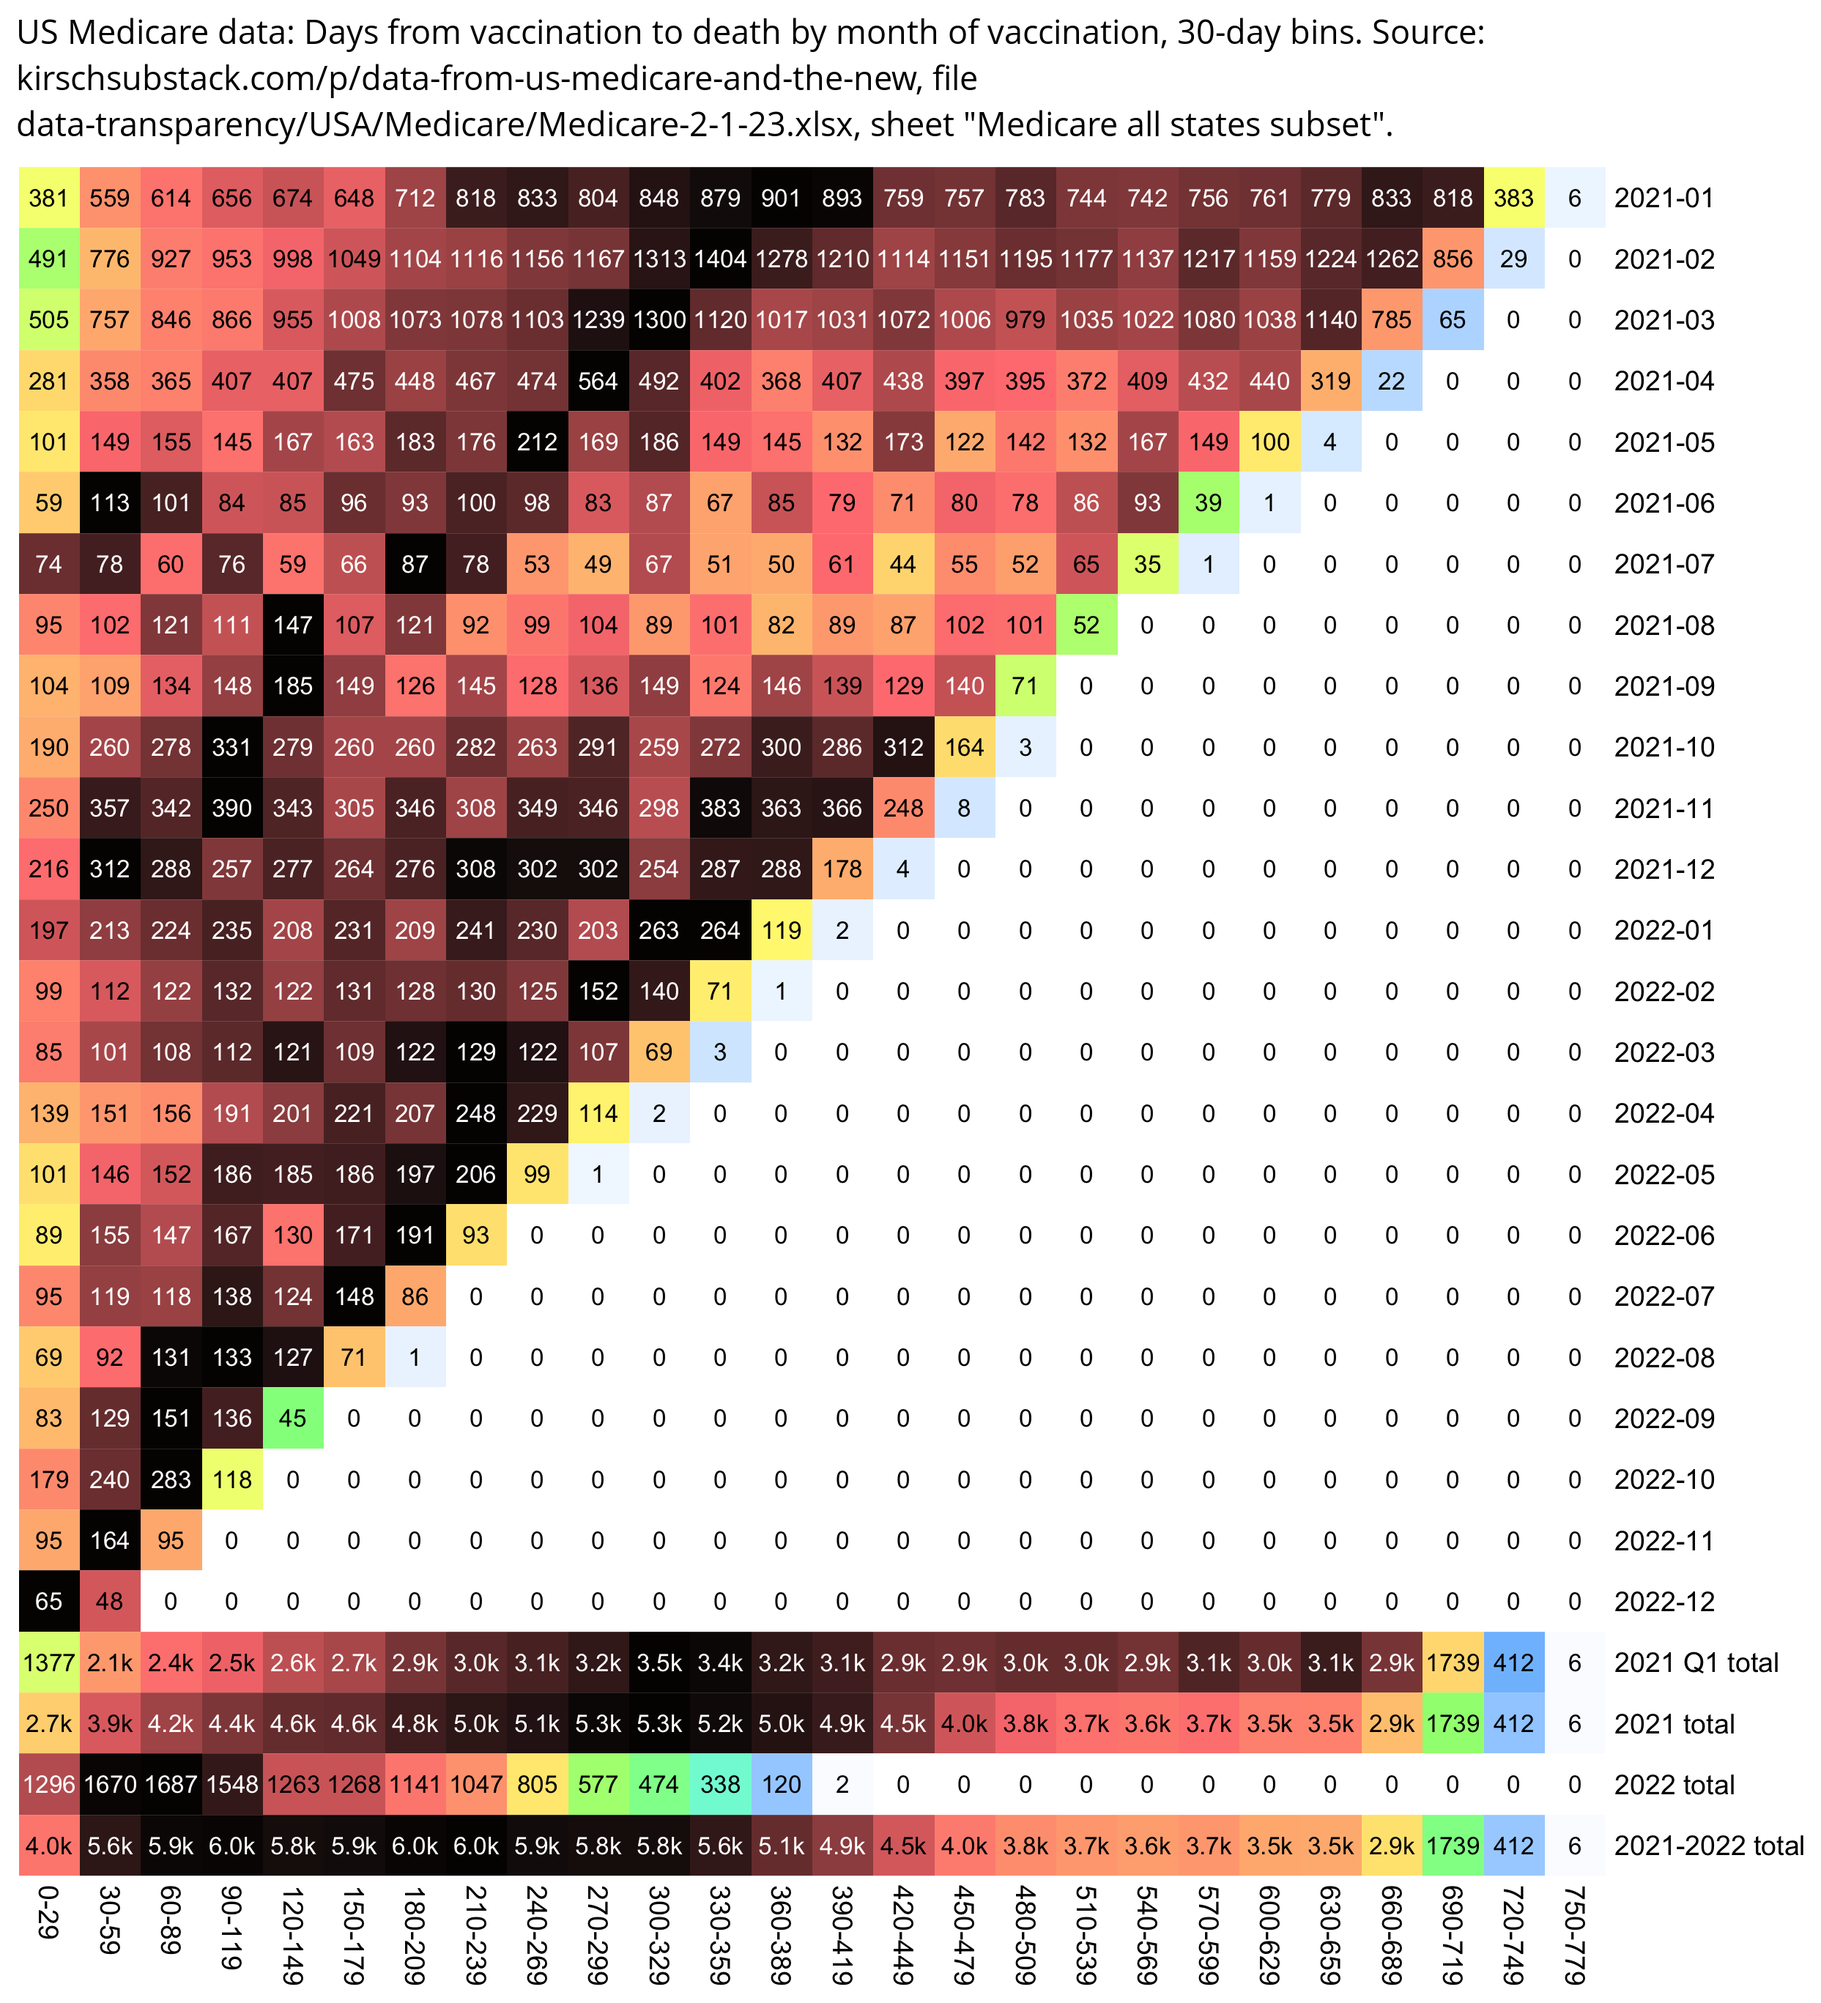
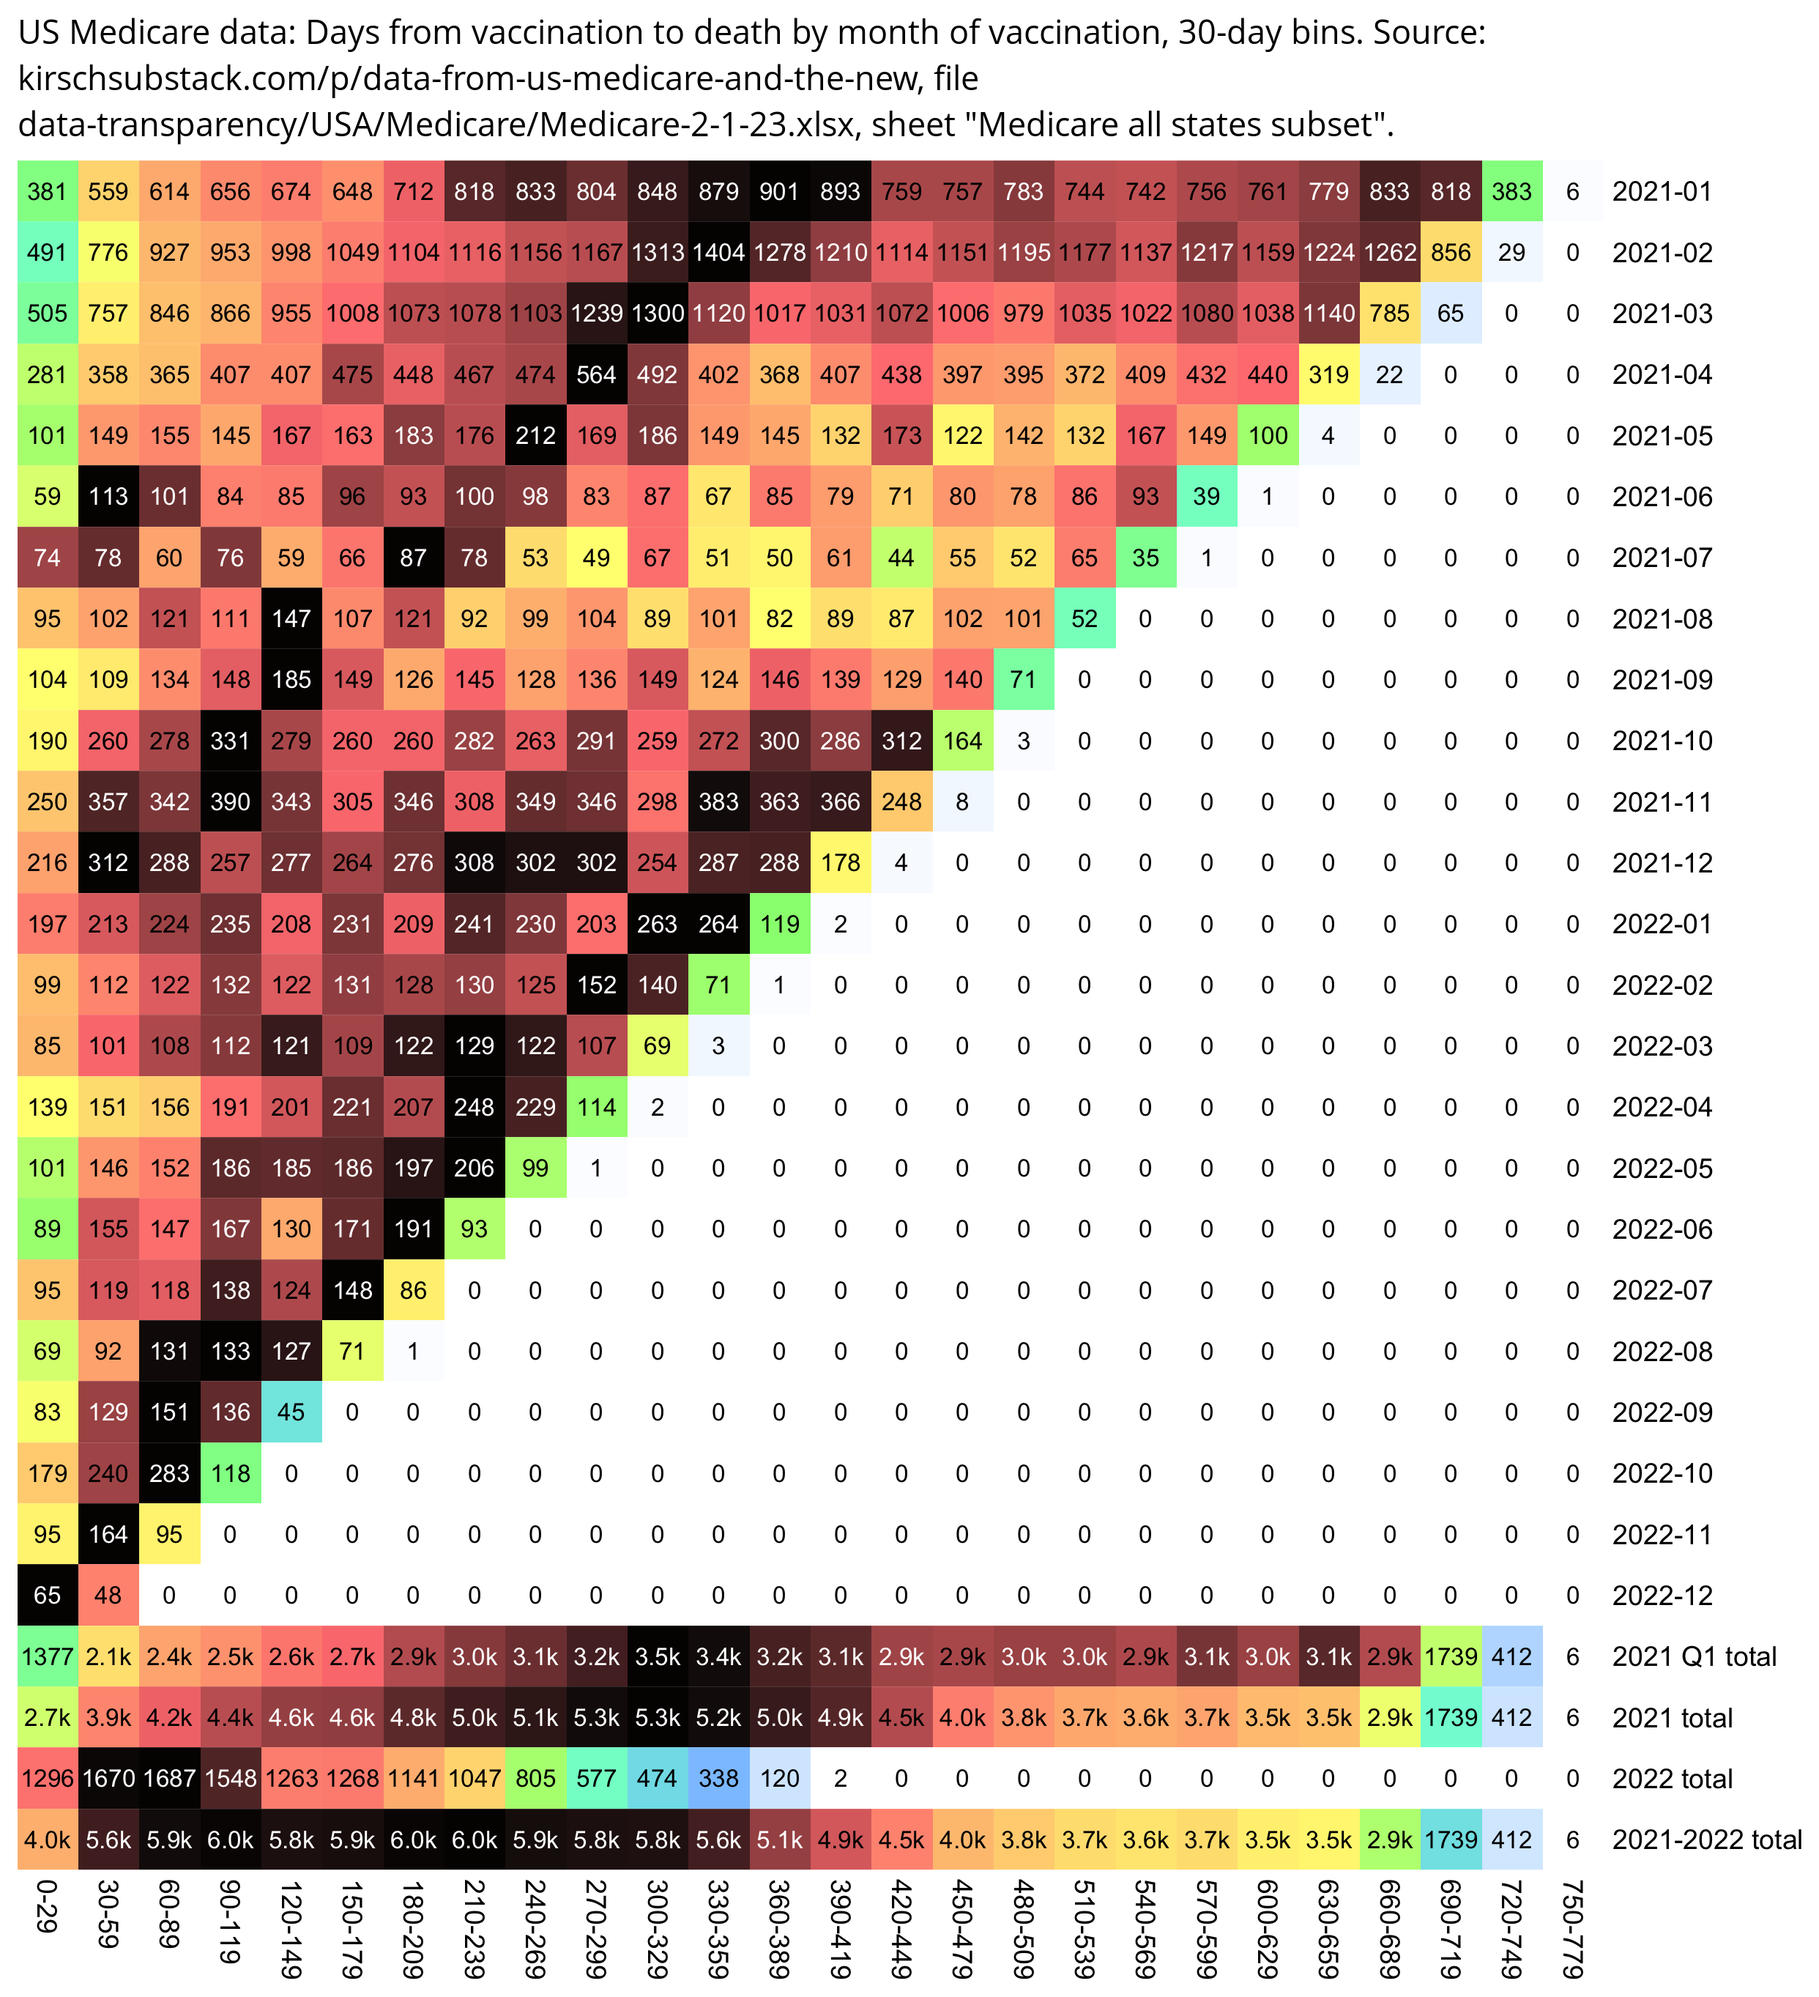
a

diff --git a/moar.html b/moar.html
@@ -80,7 +80,7 @@ th{background:#eee;text-align:left;font-weight:bold}
 </ul></li>
 <li><a href=#Other_datasets_published_by_Kirsch>Other datasets published by Kirsch</a>
 <ul>
-<li><a href=#Increase_in_deaths_by_days_after_vaccination_in_US_Medicare_data>Increase in deaths by days after vaccination in US Medicare data</a></li>
+<li><a href=#Increasing_trend_in_deaths_by_days_after_vaccination_in_US_Medicare_data>Increasing trend in deaths by days after vaccination in US Medicare data</a></li>
 </ul></li>
 <li><a href=#Miscellaneous>Miscellaneous</a>
 <ul>
@@ -1482,21 +1482,23 @@ ggsave(&quot;1.png&quot;,width=5.8,height=4.5)</pre>
 <p>The point of this analysis is to show that the deaths after dose 3 peak around 6 months from the shot, regardless of which month the dose 3 shots were given in. This is a HUGE problem to explain. There is no explanation other than the vaccines are causing the death peaks.</p>
 <p>Here is the histogram for Dose 3 delivery in New Zealand; this was of only the people who were vaxxed and died, but is a good proxy for the overall delivery:</p>
 <p><img src=i/moar-sensitivity-1.png class=width5></p>
-<p>So I then plotted the deaths since Dose 3 for Doses delivered in Nov 2021, Dec 2021, … , March 2022.</p>
+<p>So I then plotted the deaths since Dose 3 for Doses delivered in Nov 2021, Dec 2021, ... , March 2022.</p>
 <p>As you can see the patterns do NOT shift. The peak is always around day 170.</p>
-<p>This means there wasn’t a background event causing the peak.</p>
+<p>This means there wasn't a background event causing the peak.</p>
 <p>It means the peaks were due to the vaccine itself.</p>
 <p>[...]</p>
 <p>There is a steady increase in deaths per month which levels off at month 6 (day 170) no matter when you are vaccinated. The only way this can happen is if it is the vaccines causing this.</p>
-<p>We'll go backward from vaxxed in March 2022. Y-axis is # people who died within the 28 day bucket</p>
+<p>We'll go backward from vaxxed in March 2022. Y-axis is # people who died within the 28 day bucket:</p>
 <div class="width0">
 <img src=i/moar-sensitivity-2.png class=width5><img src=i/moar-sensitivity-3.png class=width5><img src=i/moar-sensitivity-4.png class=width5><img src=i/moar-sensitivity-5.png class=width5><img src=i/moar-sensitivity-6.png class=width5>
 </div>
 </blockquote>
-<p>Kirsch worte that the peak in deaths was always around day 170 regardless of which month the vaccine doses were given. However the plots above actually show that the deaths peaked on days 171-198 in November 2021 but on days 115-142 in March 2022, so the time until the peak seems to have been getting shorter over time. When I also included further months past March 2022 and I used 30-day bins instead of 28-day bins, I got a linear trend where the deaths peaked on days 180-209 for doses given in January 2022, on days 150-179 for doses given in February, on days 120-149 for doses given in March, and on days 90-119 for doses given in April (or actually for doses given in January there was a second peak over 500 days later which was even higher):</p>
-<div class="width6">
+<p>Kirsch wrote that the peak in deaths was always around day 170 regardless of which month the vaccine doses were given. However the plots above actually show that the deaths peaked on days 171-198 in November 2021 but on days 115-142 in March 2022, so the time until the peak seems to have been getting shorter over time. When I also included further months past March 2022 and I used 30-day bins instead of 28-day bins, I got a linear trend where the deaths peaked on days 180-209 for doses given in January 2022, on days 150-179 for doses given in February, on days 120-149 for doses given in March, and on days 90-119 for doses given in April (or actually for doses given in January there was a second even higher peak around days 510-599):</p>
+<div class="width7">
 <img src="i/moar-sensitivity-7.png">
 </div>
+<p>If you look at first doses instead of third doses, there is also a similar linear pattern where the number of deaths peaks on days 420-449 for vaccines given in May 2021, and over the next months the peak shifts by about 30 days each month:</p>
+<p><img src=i/moar-sensitivity-8.png style=max-width:850px></p>
 <pre>t=as.data.frame(data.table::fread(&quot;nz-record-level-data-4M-records.csv&quot;))
 for(i in grep(&quot;date&quot;,colnames(t)))t[,i]=as.Date(t[,i],&quot;%m-%d-%Y&quot;)
 
@@ -1508,7 +1510,6 @@ colnames(m)=paste0(colnames(m),&quot;-&quot;,as.numeric(colnames(m))+29)
 
 disp=ifelse(m&gt;=2e3,paste0(sprintf(&quot;%.1f&quot;,m/1e3),&quot;k&quot;),m)
 m=m/apply(m,1,max)
-m=m^.7
 
 pheatmap::pheatmap(
   m,
@@ -1533,7 +1534,7 @@ system(&quot;convert -trim 0.png -bordercolor white -gravity northwest -splice x
 <a href=#Other_datasets_published_by_Kirsch id=Other_datasets_published_by_Kirsch>Other datasets published by Kirsch</a>
 </h2>
 <h3>
-<a href=#Increase_in_deaths_by_days_after_vaccination_in_US_Medicare_data id=Increase_in_deaths_by_days_after_vaccination_in_US_Medicare_data>Increase in deaths by days after vaccination in US Medicare data</a>
+<a href=#Increasing_trend_in_deaths_by_days_after_vaccination_in_US_Medicare_data id=Increasing_trend_in_deaths_by_days_after_vaccination_in_US_Medicare_data>Increasing trend in deaths by days after vaccination in US Medicare data</a>
 </h3>
 <p>Kirsch wrote: [<a href="https://kirschsubstack.com/p/medicare-death-data-proves-the-covid">https://kirschsubstack.com/p/medicare-death-data-proves-the-covid</a>]</p>
 <blockquote>
@@ -1554,7 +1555,7 @@ system(&quot;convert -trim 0.png -bordercolor white -gravity northwest -splice x
 <div class="width6">
 <img src="i/moar-medicare-3.png">
 </div>
-<p>In the heatmap below where I plotted the days from vaccination to death grouped by month of vaccination, the peaks in the number of deaths form a linear pattern, where the peak is on days 360-389 in January, 330-359 in February, 300-329 in March, and so on up to December when the peak is on days 30-59. So did the vaccines start to kill people a lot faster in late 2021 than in early 2021? Or were the peaks in deaths rather caused by the appearance of Omicron combined with the usual increase in deaths during the winter?</p>
+<p>In the heatmap below where I plotted the days from vaccination to death grouped by month of vaccination, the peaks in the number of deaths form a linear pattern, where the peak is on days 360-389 in January, 330-359 in February, 300-329 in March, and so on up to December when the peak is on days 30-59. So did the vaccines start to kill people a lot faster in late 2021 than in early 2021? Or was the peak in deaths around January 2022 rather caused by the appearance of Omicron combined with the usual increase in deaths during the winter?</p>
 <div class="width8">
 <img src="i/moar-medicare-4.png">
 </div>
@@ -1570,7 +1571,6 @@ m=rbind(m,&quot;2021 Q1 total&quot;=colSums(m[1:3,]),&quot;2021 total&quot;=colS
 
 disp=ifelse(m&gt;=2e3,paste0(sprintf(&quot;%.1f&quot;,m/1e3),&quot;k&quot;),m)
 m=m/apply(m,1,max)
-m=m^.7
 
 colnames(m)=paste0(colnames(m),&quot;-&quot;,as.numeric(colnames(m))+29)
 
@@ -1674,7 +1674,7 @@ ggsave(&quot;1.png&quot;,width=5.5,height=3.5,dpi=400)</pre>
 <p><img src=i/moar-medicare-6.png width=600></p>
 </blockquote>
 <p>However the reason why the pneumococcal vaccines had a flat curve was probably because they were distributed more evenly throughout the year, like how COVID vaccines also got a flat curve in my plot above when I sampled the same number of vaccines from each month. From the spreadsheets on Kirsch's S3 server, you can't see the dates when the pneumococcal vaccines were given. And also if you selected a sample of the pneumococcal vaccines so that their distribution of vaccination dates would have a similar shape as the COVID vaccines, you'd probably get a similar increasing curve for the number of deaths by weeks from vaccination.</p>
-<p>If you look at the average number of deaths in the United States following each 51-week period from a vaccination date in the Medicare dataset, it also forms a curve that mostly increases from week 16 apart from a dent around week 36. There's a decreasing trend during the first 16 weeks, but in the Medicare data it probably gets canceled out by the healthy vaccinee effect. I don't know why the dent around week 36 is not visible in the Medicare data though:</p>
+<p>If you look at the average number of deaths in the United States following each 51-week period from a vaccination date in the Medicare dataset, it also forms a curve that mostly increases from week 16 onwards, apart from a dent around week 36. There's a decreasing trend during the first 16 weeks, but in the Medicare data it probably gets canceled out by the healthy vaccinee effect. I don't know why the dent around week 36 is not visible in the Medicare data though:</p>
 <div class="width5">
 <img src="i/moar-medicare-7.png">
 </div>
